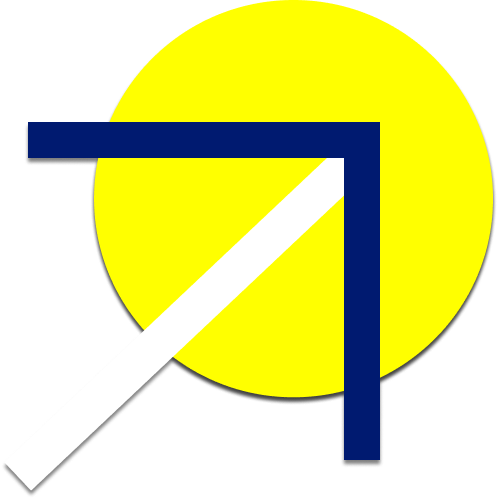
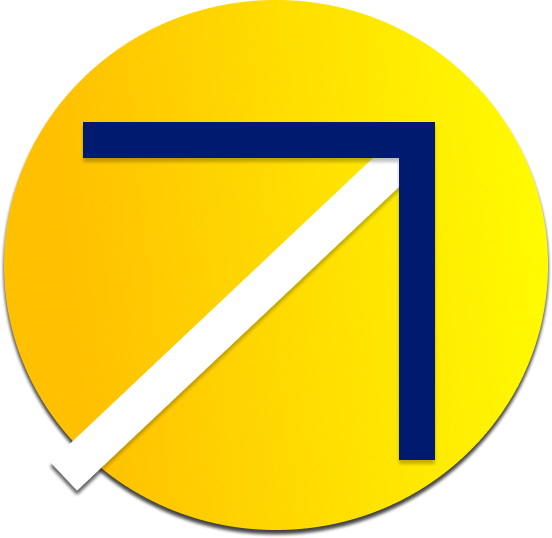
arrow, bg, color x

diff --git a/src/index.css b/src/index.css
@@ -117,6 +117,10 @@ body{
   /* .navbar {
     background: #fff; 
   } */
+/* iPhone 14 & 15 Pro Max - 1 */
+
+
+
 
   .navbar ul {
     flex-direction: column;
@@ -126,7 +130,7 @@ body{
     left: 0;
     right: 0;
     bottom: 0;
-    background: yellow;
+    background: linear-gradient(177.11deg, #FFFF00 8.51%, #FFC000 84.78%, #FFC000 87.03%);
     letter-spacing: 4px;
     padding: 200px 20px; /* Add padding for spacing */
     box-shadow: 0px 4px 8px rgba(0, 0, 0, 0.1);
@@ -283,7 +287,8 @@ letter-spacing: 0.02em;
 .bg-start{
 
   background: fixed;
-  background-image: url(assets/pexels-elsimage-2997636.jpg);
+  /* background-image: url(assets/pexels-elsimage-2997636.jpg); */
+  background-color: #000;
   background-position: 90%;
   background-size: cover;
   background-repeat: no-repeat;

diff --git a/src/components/Navbar.jsx b/src/components/Navbar.jsx
@@ -43,7 +43,7 @@ const Navbar = () => {
          <img
             src={toggle ? close : menu}
             alt="menu"
-            className='w-[90px] h-[70px] object-contain'
+            className='w-[90px] h-[70px] object-contain mt-1'
             onClick={() => setToggle(!toggle)}
           />
          </div>
